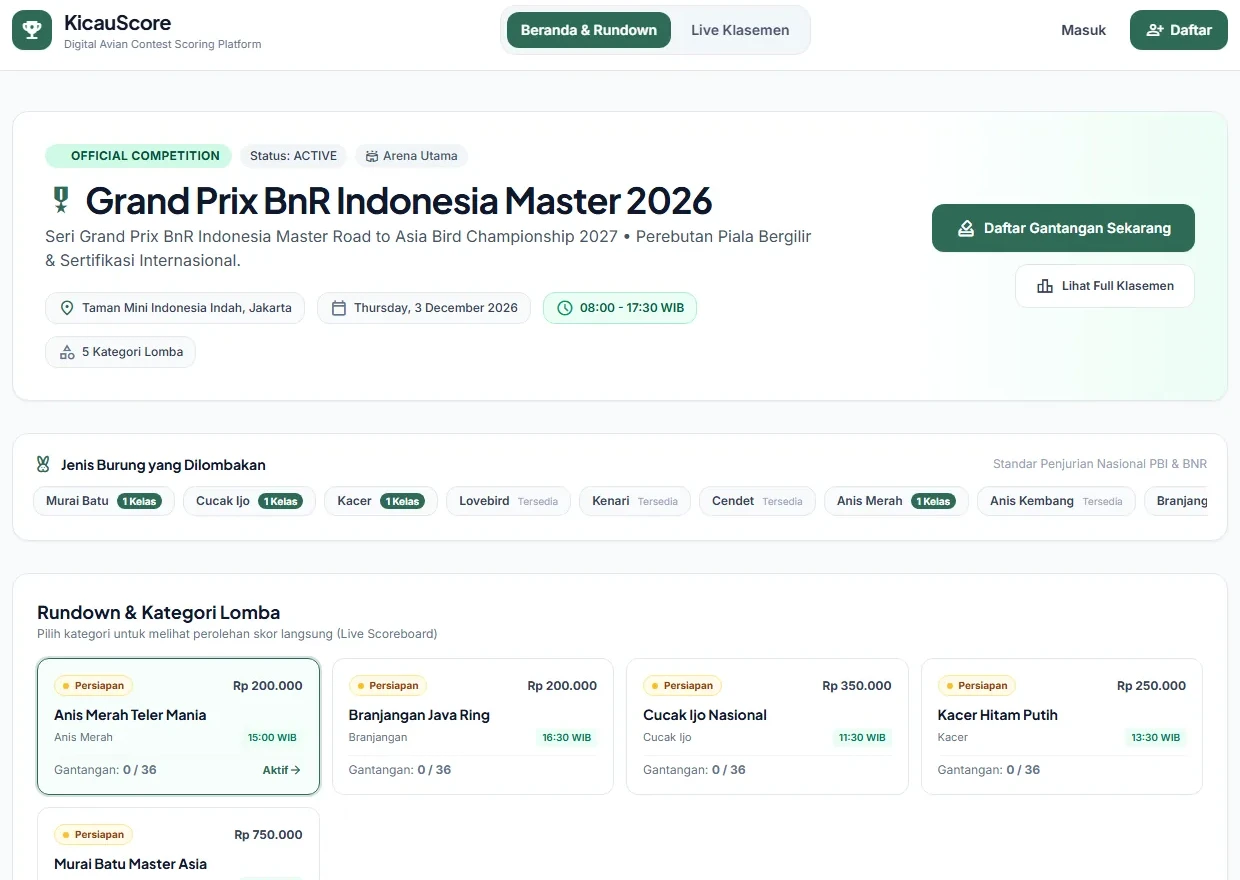
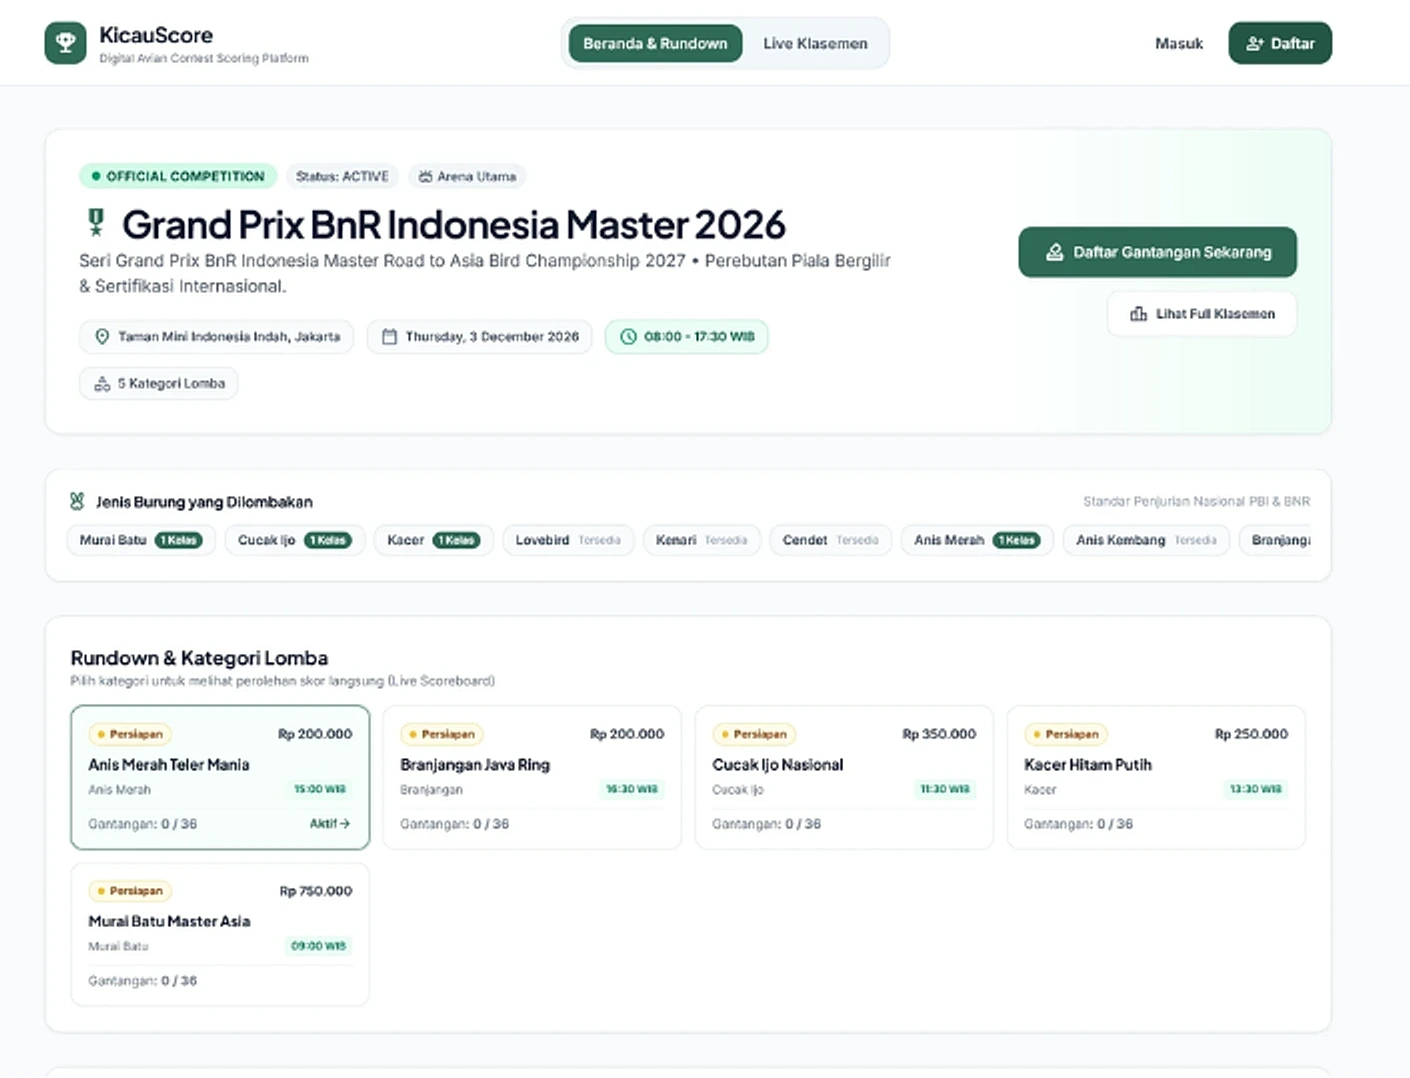
fix(kicauscore): match user card mockup flush to right edge at 1410x1078

diff --git a/src/styles/site.css b/src/styles/site.css
@@ -539,10 +539,10 @@ html:not(.js) .stage__clip { display: none; }
   position: absolute;
   top: clamp(1.5rem, 3.6vw, 3.25rem);
   left: calc(var(--margin) + 2px);
-  width: calc(100% - 2 * calc(var(--margin) + 2px));
+  width: calc(100% - calc(var(--margin) + 2px));
   max-width: none;
   height: auto;
-  border-radius: 12px;
+  border-radius: 12px 0 0 12px;
 }
 .shot--tall { aspect-ratio: 4 / 5; }
 .shot--tall > img { width: 84%; }

diff --git a/src/content/pictures.ts b/src/content/pictures.ts
@@ -117,8 +117,8 @@ export const PICTURES = {
     },
     home: {
       src: "/work/kicauscore/home-card.webp",
-      width: 1240,
-      height: 880,
+      width: 1410,
+      height: 1078,
       alt: "KicauScore contest page: the event with its venue, date and hours, the bird classes and the category rundown",
     },
     homeCluster: {
